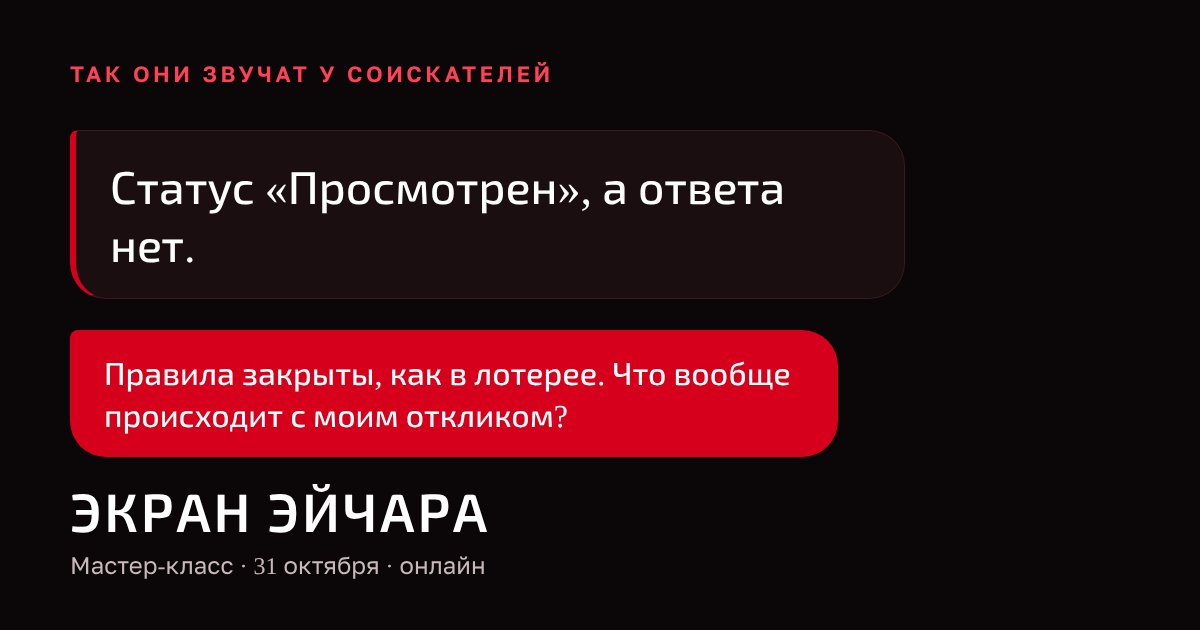
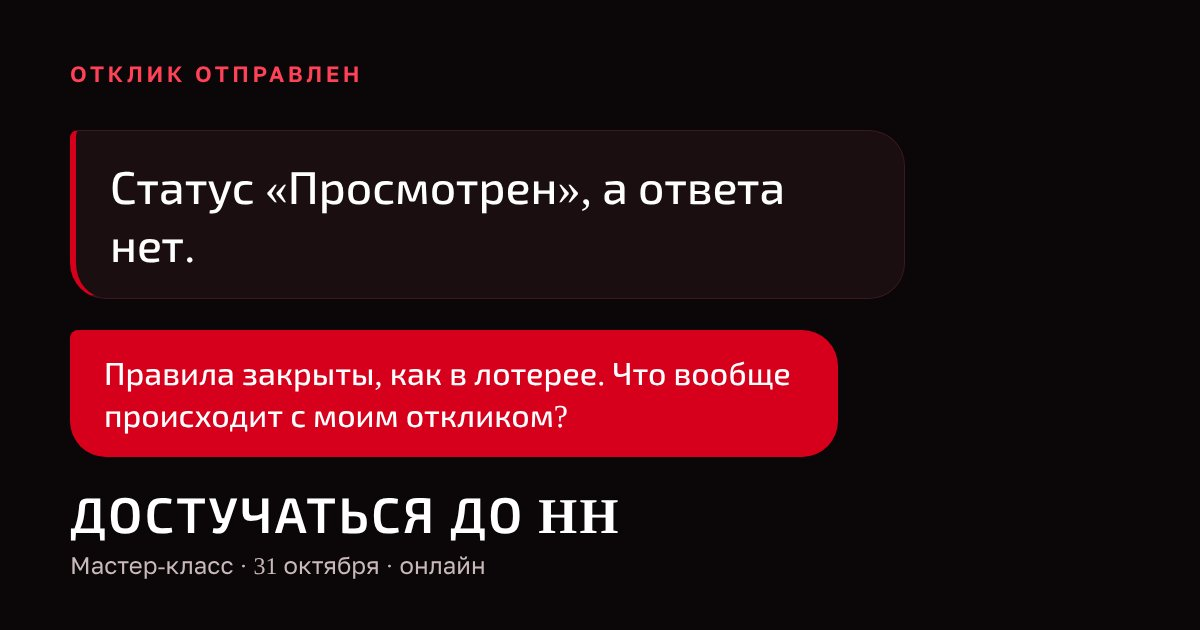
МК «Достучаться до HH»: монитор с автоотказом на первом экране, список причин, без дедлайна заявок
Claude-Session: https://claude.ai/code/session_01268gLZwSAVNuRtzsNwi1Zv

Changed region(s): [[0.0617, 0.754, 0.5242, 0.8746], [0.0617, 0.0905, 0.4625, 0.1508]]

diff --git a/ekran-ehr.html b/ekran-ehr.html
@@ -3,7 +3,7 @@
 <head>
 <meta charset="utf-8">
 <meta name="viewport" content="width=device-width, initial-scale=1">
-<title>Экран эйчара — мастер-класс Анастасии Мягченковой</title>
+<title>Достучаться до HH — мастер-класс Анастасии Мягченковой</title>
 <meta name="description" content="Правила закрыты, как в лотерее: вы отправляете отклик и не знаете, что с ним происходит. На МК вы откликнетесь на вакансию под вашу должность, а я покажу, как этот отклик выглядит на экране работодателя, почему на него молчат и что поменять.">
 <link rel="canonical" href="https://karernyi-strateg.hrexpert63.ru/ekran-ehr.html">
 <meta name="robots" content="index, follow, max-image-preview:large">
@@ -13,7 +13,7 @@
 <meta property="og:type" content="website">
 <meta property="og:locale" content="ru_RU">
 <meta property="og:site_name" content="Академия карьеры">
-<meta property="og:title" content="Экран эйчара">
+<meta property="og:title" content="Достучаться до HH">
 <meta property="og:description" content="Правила закрыты, как в лотерее: вы отправляете отклик и не знаете, что с ним происходит. На МК вы откликнетесь на вакансию под вашу должность, а я покажу, как этот отклик выглядит на экране работодателя, почему на него молчат и что поменять.">
 <meta property="og:url" content="https://karernyi-strateg.hrexpert63.ru/ekran-ehr.html">
 <meta property="og:image" content="https://karernyi-strateg.hrexpert63.ru/img/og-ekran-ehr.jpg">
@@ -81,13 +81,13 @@ h2{font:600 clamp(28px,5vw,52px)/1.12 var(--head);letter-spacing:-.01em;text-wra
 /* ───── 1. БОЛЬ ───── */
 .pain{position:relative;background:var(--night);color:#fff;padding:clamp(40px,7vw,96px) var(--gut) clamp(72px,9vw,120px);overflow:hidden}
 .pain::before{content:"";position:absolute;inset:auto -20% -40% -20%;height:70%;background:radial-gradient(60% 60% at 50% 100%,rgba(214,0,28,.38),transparent 70%);pointer-events:none}
-.pain__in{position:relative;max-width:1180px;margin:0 auto;display:grid;gap:clamp(28px,5vw,64px);grid-template-columns:1fr}
-@media(min-width:960px){.pain__in{grid-template-columns:1.05fr .95fr;align-items:center}}
-.pain h1{font:600 clamp(30px,5.6vw,64px)/1.08 var(--head);letter-spacing:-.015em;text-wrap:balance}
+/* hero: заголовок, затем монитор и реплики */
+.pain__in{position:relative;max-width:1180px;margin:0 auto;display:grid;gap:clamp(24px,4vw,40px);grid-template-columns:1fr}
+@media(min-width:960px){.pain__in{grid-template-columns:1fr 1fr;column-gap:56px;row-gap:28px;grid-template-areas:'h r' 'c r';align-items:start}
+  .pain__in h1{grid-area:h}.pain__in .rig{grid-area:r;align-self:center}.pain__in .chat{grid-area:c}}
+.pain h1{max-width:20ch;font:600 clamp(30px,5.6vw,64px)/1.08 var(--head);letter-spacing:-.015em;text-wrap:balance}
 .pain h1 em{font-style:normal;color:var(--hh-bright)}
-.pain__cap{margin-top:20px;color:#C9B9BB;font-size:15px;letter-spacing:.04em}
 .chat{display:flex;flex-direction:column;align-items:flex-start;gap:10px}
-.chat__label{font:600 12px/1.4 'Golos Text',sans-serif;letter-spacing:.16em;text-transform:uppercase;color:var(--hh-bright);margin-bottom:4px}
 .msg{max-width:min(100%,460px);padding:13px 18px;border-radius:4px 20px 20px 20px;background:var(--night2);border:1px solid #3A1A1F;border-left:3px solid var(--hh);font-size:clamp(16px,1.8vw,18px);line-height:1.45;color:#F4ECEC}
 .msg--last{background:var(--hh);border-color:var(--hh);color:#fff;font-weight:500;box-shadow:0 14px 40px -14px rgba(214,0,28,.8)}
 .js .msg{opacity:0;transform:translateY(14px);transition:opacity .5s ease,transform .5s ease}
@@ -98,6 +98,48 @@ h2{font:600 clamp(28px,5vw,52px)/1.12 var(--head);letter-spacing:-.01em;text-wra
 .arrow{display:block;margin-top:28px;color:var(--hh-bright);animation:bob 2s ease-in-out infinite}
 @keyframes bob{50%{transform:translateY(8px)}}
 
+
+/* монитор: отклик → автоотказ */
+.rig{width:100%;max-width:560px;margin:0 auto}
+.mon{border-radius:14px 14px 10px 10px;background:#15090B;border:2px solid #2C1A1D;padding:7px 7px 10px;box-shadow:0 30px 60px -30px rgba(214,0,28,.55)}
+.mon__bar{display:flex;align-items:center;gap:5px;padding:2px 4px 7px}
+.mon__bar i{width:8px;height:8px;border-radius:50%;background:#3A2326}
+.mon__bar .url{margin-left:8px;flex:1;min-width:0;padding:3px 10px;border-radius:999px;background:#241316;color:#9C8789;font:400 11px/1.4 'Golos Text',sans-serif;white-space:nowrap;overflow:hidden;text-overflow:ellipsis}
+.mon__page{position:relative;background:#fff;border-radius:8px;min-height:clamp(210px,52vw,300px);padding:14px 16px 16px;color:#16181D;overflow:hidden;font-family:'Golos Text',sans-serif}
+.nav{display:flex;align-items:center;gap:8px;padding-bottom:12px;border-bottom:1px solid #E7E9EE;margin-bottom:12px}
+.nav__dot{width:20px;height:20px;border-radius:50%;background:#E4E7EC}
+.nav__ln{height:8px;width:90px;border-radius:4px;background:#E4E7EC}.nav__ln--s{width:54px}
+.vac__t{font:700 clamp(16px,3.4vw,22px)/1.2 var(--head);color:#16181D}
+.vac__s{margin-top:6px;font-size:clamp(12px,2.4vw,14px);font-weight:500}
+.vac__m{margin-top:3px;font-size:clamp(11px,2.2vw,13px);color:#5B6270}
+.vac__btns{display:flex;gap:8px;margin-top:14px}
+.vac__btns span{display:grid;place-items:center;height:38px;border-radius:8px;font:600 clamp(12px,2.4vw,14px)/1 'Golos Text',sans-serif}
+.b1{flex:1.4;background:#0A6BFF;color:#fff}
+.b2{flex:1;background:#E8F0FF;color:#0A6BFF}
+.toast{position:absolute;right:12px;bottom:12px;left:12px;padding:12px 14px;border-radius:10px;opacity:0;font-size:clamp(12px,2.4vw,14px)}
+.t1{background:#16181D;color:#fff;font-weight:500}
+.t2{background:var(--hh);color:#fff;display:flex;justify-content:space-between;align-items:baseline;gap:10px;box-shadow:0 10px 30px -8px rgba(214,0,28,.7)}
+.t2 b{font:700 clamp(15px,3vw,18px)/1.2 var(--head)}
+.t2 span{font-size:12px;opacity:.9}
+.cur{position:absolute;left:68%;top:78%;filter:drop-shadow(0 2px 3px rgba(0,0,0,.35));pointer-events:none;opacity:0}
+.stand{width:22%;height:22px;margin:0 auto;background:linear-gradient(#2C1A1D,#1D1012)}
+.foot-b{width:44%;height:8px;margin:0 auto;border-radius:6px 6px 0 0;background:#2C1A1D}
+/* без анимации (reduce или без JS) — финальный кадр сразу виден */
+.t2{opacity:1}.cur{opacity:1;left:30%;top:66%}
+@media(prefers-reduced-motion:no-preference){
+  .t2{opacity:0;animation:t2 9s infinite}
+  .t1{animation:t1 9s infinite}
+  .cur{animation:cur 9s infinite;left:80%;top:95%}
+  .b1{animation:b1 9s infinite}
+}
+@keyframes cur{0%{opacity:0;left:84%;top:98%}8%{opacity:1}30%{left:28%;top:68%}36%{left:28%;top:68%;transform:scale(.88)}40%{transform:scale(1)}88%{opacity:1;left:28%;top:68%}96%,100%{opacity:0;left:28%;top:68%}}
+@keyframes b1{0%,34%{background:#0A6BFF}36%,100%{background:#0852C4}}
+@keyframes t1{0%,36%{opacity:0;transform:translateY(8px)}40%,52%{opacity:1;transform:none}56%,100%{opacity:0}}
+@keyframes t2{0%,56%{opacity:0;transform:translateY(8px)}62%,92%{opacity:1;transform:none}98%,100%{opacity:0}}
+.pain__end p.pain__sub{font:400 clamp(16px,2vw,19px)/1.5 "Golos Text",sans-serif;margin-top:18px;color:#C9B9BB;max-width:52ch}
+.why-tags{margin-top:18px;display:flex;flex-wrap:wrap;gap:10px;max-width:980px}
+.why-tags li{padding:9px 15px;border-radius:999px;border:1px solid #5A1B24;background:rgba(214,0,28,.12);color:#FFD9DD;font-size:15px;line-height:1.35}
+
 /* ───── мост: боль → спокойствие ───── */
 .bridge{height:clamp(140px,22vw,260px);background:linear-gradient(180deg,var(--night) 0%,#2B0A10 18%,#10201E 58%,var(--bg) 100%)}
 
@@ -106,7 +148,7 @@ h2{font:600 clamp(28px,5vw,52px)/1.12 var(--head);letter-spacing:-.01em;text-wra
 .offer__in{display:grid;gap:clamp(36px,6vw,80px);grid-template-columns:1fr;align-items:center}
 @media(min-width:960px){.offer__in{grid-template-columns:1.1fr .9fr}}
 .offer .eyebrow{color:var(--link)}
-.offer h2.title{margin-top:16px;font:600 clamp(36px,8.4vw,92px)/1 var(--head);letter-spacing:.05em;text-transform:uppercase;color:var(--ink)}
+.offer h2.title{margin-top:16px;font:600 clamp(30px,7.4vw,84px)/1.02 var(--head);letter-spacing:.03em;text-transform:uppercase;color:var(--ink)}
 .offer .sub{margin-top:20px;font:500 clamp(20px,3vw,28px)/1.3 var(--head);color:var(--teal);max-width:24ch}
 @media(prefers-color-scheme:dark){.offer .sub{color:var(--gold2)}}
 .offer .txt{margin-top:20px;color:var(--mute);max-width:56ch}
@@ -298,21 +340,52 @@ h2{font:600 clamp(28px,5vw,52px)/1.12 var(--head);letter-spacing:-.01em;text-wra
 <!-- 1. БОЛЬ -->
 <section class="pain" id="pain" aria-labelledby="h1">
   <div class="pain__in">
-    <div>
-      <h1 id="h1">Вы отправили десятки откликов. В&nbsp;ответ <em>тишина или отказ через несколько секунд</em></h1>
-    </div>
-    <div class="chat" id="chat">
-      <div class="chat__label">Так они звучат у соискателей</div>
-      <p class="msg">Отправил 50 откликов. Тишина.</p>
-      <p class="msg">Отказ пришёл через пять секунд. Меня вообще читали?</p>
-      <p class="msg">Статус «Просмотрен», а ответа нет.</p>
-      <p class="msg">Может, дело в резюме? Или в письме? Или меня отсеял фильтр?</p>
-      <p class="msg">Не понятно, это я не подхожу рынку или система сбоит.</p>
-      <p class="msg msg--last">Правила закрыты, как в лотерее. Что вообще происходит с моим откликом?</p>
-    </div>
+    <h1 id="h1">Вы отправили десятки откликов. В&nbsp;ответ <em>тишина или отказ через несколько секунд</em></h1>
+      <div class="rig" role="img" aria-label="Компьютер: на мониторе открыта страница вакансии, соискатель нажимает «Откликнуться» и сразу получает автоматический отказ">
+        <div class="mon">
+          <div class="mon__bar"><i></i><i></i><i></i><span class="url">vacancy / руководитель-отдела-продаж</span></div>
+          <div class="mon__page">
+            <div class="nav"><span class="nav__dot"></span><span class="nav__ln"></span><span class="nav__ln nav__ln--s"></span></div>
+            <div class="vac">
+              <p class="vac__t">Руководитель отдела продаж</p>
+              <p class="vac__s">от 150 000 ₽ за месяц, до вычета налогов</p>
+              <p class="vac__m">Опыт работы: 3–6 лет · Полная занятость</p>
+              <p class="vac__m">Сейчас эту вакансию смотрят 6 человек</p>
+              <div class="vac__btns"><span class="b1">Откликнуться</span><span class="b2">Контакты</span></div>
+            </div>
+            <div class="toast t1">Отклик отправлен</div>
+            <div class="toast t2"><b>Отказ</b><span>Прошло 5 секунд</span></div>
+            <svg class="cur" width="26" height="26" viewBox="0 0 24 24" aria-hidden="true"><path d="M5 2l14 9-6.2 1.4L16 19l-3 1.3-3.2-6.4L5 18z" fill="#fff" stroke="#111" stroke-width="1.4" stroke-linejoin="round"/></svg>
+          </div>
+        </div>
+        <div class="stand"></div><div class="foot-b"></div>
+      </div>
+      <div class="chat" id="chat">
+        <p class="msg">Отправил 50 откликов. Тишина.</p>
+        <p class="msg">Отказ пришёл через пять секунд. Меня вообще читали?</p>
+        <p class="msg">Статус «Просмотрен», а ответа нет.</p>
+        <p class="msg">Может, дело в резюме? Или в письме? Или меня отсеял фильтр?</p>
+        <p class="msg">Не понятно, это я не подхожу рынку или система сбоит.</p>
+        <p class="msg msg--last">Правила закрыты, как в лотерее. Что вообще происходит с моим откликом?</p>
+      </div>
   </div>
   <div class="pain__end">
     <p>Хуже всего не отказ, а то, что вы не знаете, <b>почему</b></p>
+    <p class="pain__sub">Причин может быть множество, и снаружи их не различить:</p>
+    <ul class="why-tags">
+      <li>резюме не совпало с требованиями вакансии</li>
+      <li>отклик не прошёл автоматический фильтр</li>
+      <li>шаблонное сопроводительное письмо</li>
+      <li>нет результатов и цифр в опыте</li>
+      <li>зарплатные ожидания выше вилки</li>
+      <li>слишком большой или слишком маленький опыт</li>
+      <li>частая смена мест работы или пауза в карьере</li>
+      <li>не те ответы на вопросы работодателя</li>
+      <li>вакансия уже закрыта, а отклик всё ещё принимается</li>
+      <li>отклик утонул среди сотен других</li>
+      <li>регион, формат или график не подошли</li>
+      <li>рекрутёр увидел в списке только одну строку</li>
+    </ul>
     <svg class="arrow" width="28" height="40" viewBox="0 0 28 40" fill="none" stroke="currentColor" stroke-width="2.5" stroke-linecap="round" stroke-linejoin="round" aria-hidden="true"><path d="M14 3v32M4 26l10 10 10-10"/></svg>
   </div>
 </section>
@@ -324,12 +397,12 @@ h2{font:600 clamp(28px,5vw,52px)/1.12 var(--head);letter-spacing:-.01em;text-wra
   <div class="wrap offer__in">
     <div>
       <p class="eyebrow">Мастер-класс · 31 октября · онлайн</p>
-      <h2 class="title" id="h-offer">Экран эйчара</h2>
+      <h2 class="title" id="h-offer">Достучаться до&nbsp;HH</h2>
       <p class="sub">Покажу, что эйчар видит вместо вашего отклика</p>
       <p class="txt">Правила закрыты, как в лотерее. Вы отправляете отклик и не знаете, что с ним происходит. На мастер-классе вы откликнетесь на вакансию под вашу должность, а я покажу, как этот отклик выглядит на экране работодателя, почему на него молчат и что поменять.</p>
       <ul class="facts">
         <li>31 октября, живая встреча</li>
-        <li>Заявки до 28 октября</li>
+        <li>Запись встречи включена</li>
         <li>Разбор вашего отклика от 5&nbsp;900&nbsp;₽</li>
       </ul>
       <a class="btn" href="#tariffs" data-goal="cta_offer">Выбрать формат</a>
@@ -369,10 +442,10 @@ h2{font:600 clamp(28px,5vw,52px)/1.12 var(--head);letter-spacing:-.01em;text-wra
       <div class="node node--end">Разбор и правки<small>что поменять</small></div>
     </div>
     <ol class="steps">
-      <li><span class="d">До 28 октября</span><p><b>Вы записываетесь и заполняете анкету:</b> должность, отрасль, резюме, зарплатные ожидания.</p></li>
-      <li><span class="d">После записи</span><p><b>Я публикую учебную вакансию</b> под вашу должность (в базовом тарифе — под ваше направление, в персональном — под точную). Найм по ней не ведётся.</p></li>
+      <li><span class="d">Сразу после оплаты</span><p><b>Вы записываетесь и заполняете анкету:</b> должность, отрасль, резюме, зарплатные ожидания.</p></li>
+      <li><span class="d">После анкеты</span><p><b>Я публикую учебную вакансию</b> под вашу должность (в базовом тарифе — под ваше направление, в персональном — под точную). Найм по ней не ведётся.</p></li>
       <li><span class="d">Ваш шаг</span><p><b>Вы откликаетесь</b> со своим сопроводительным, как на обычную вакансию.</p></li>
-      <li><span class="d">29–30 октября</span><p><b>Я показываю скрины</b> вашего отклика в интерфейсе работодателя и пишу разбор: что видно сразу, три стоп-фактора, три правки.</p></li>
+      <li><span class="d">29–30 октября</span><p><b>Я показываю скрины</b> вашего отклика в интерфейсе работодателя и пишу разбор: что видно сразу, стоп-факторы и правки.</p></li>
       <li><span class="d">31 октября</span><p><b>Живая встреча.</b> Типичные ошибки на обезличенных примерах и ответы на ваши вопросы.</p></li>
     </ol>
     <p class="note">Вакансия учебная: найм по ней не ведётся, вы откликаетесь осознанно, чтобы увидеть свой отклик глазами работодателя.</p>
@@ -419,7 +492,7 @@ h2{font:600 clamp(28px,5vw,52px)/1.12 var(--head);letter-spacing:-.01em;text-wra
     <ul class="gain__list">
       <li><svg width="26" height="26" viewBox="0 0 26 26" fill="none" stroke="#E7C766" stroke-width="2" stroke-linecap="round" stroke-linejoin="round" aria-hidden="true"><circle cx="13" cy="13" r="11"/><path d="M7.5 13.5l4 4 7-8"/></svg><p><b>Увидите свой отклик так, как его видит эйчар</b><span>Скрины из интерфейса работодателя.</span></p></li>
       <li><svg width="26" height="26" viewBox="0 0 26 26" fill="none" stroke="#E7C766" stroke-width="2" stroke-linecap="round" stroke-linejoin="round" aria-hidden="true"><circle cx="13" cy="13" r="11"/><path d="M7.5 13.5l4 4 7-8"/></svg><p><b>Поймёте, где он теряется</b><span>В резюме, в письме или в соответствии вакансии.</span></p></li>
-      <li><svg width="26" height="26" viewBox="0 0 26 26" fill="none" stroke="#E7C766" stroke-width="2" stroke-linecap="round" stroke-linejoin="round" aria-hidden="true"><circle cx="13" cy="13" r="11"/><path d="M7.5 13.5l4 4 7-8"/></svg><p><b>Получите три правки</b><span>И переписанное начало сопроводительного.</span></p></li>
+      <li><svg width="26" height="26" viewBox="0 0 26 26" fill="none" stroke="#E7C766" stroke-width="2" stroke-linecap="round" stroke-linejoin="round" aria-hidden="true"><circle cx="13" cy="13" r="11"/><path d="M7.5 13.5l4 4 7-8"/></svg><p><b>Получите правки</b><span>И переписанное начало сопроводительного.</span></p></li>
       <li><svg width="26" height="26" viewBox="0 0 26 26" fill="none" stroke="#E7C766" stroke-width="2" stroke-linecap="round" stroke-linejoin="round" aria-hidden="true"><circle cx="13" cy="13" r="11"/><path d="M7.5 13.5l4 4 7-8"/></svg><p><b>Узнаете, как устроен отбор</b><span>На живой встрече, и сможете задать вопрос.</span></p></li>
     </ul>
     <p class="gain__honest">Приглашения не обещаю: решение принимает работодатель. Зато пропадёт главное — <b>непонимание, что с вашим откликом не так.</b></p>
@@ -429,8 +502,7 @@ h2{font:600 clamp(28px,5vw,52px)/1.12 var(--head);letter-spacing:-.01em;text-wra
 <!-- 7. ТАРИФЫ -->
 <section class="sec tar" id="tariffs" aria-labelledby="h-tar">
   <div class="wrap">
-    <p class="eyebrow">Заявки до 28 октября</p>
-    <h2 id="h-tar" style="margin-top:12px">Выберите формат</h2>
+    <h2 id="h-tar">Выберите формат</h2>
     <div class="tar__grid">
       <article class="plan">
         <h3>Базовый</h3>
@@ -460,7 +532,7 @@ h2{font:600 clamp(28px,5vw,52px)/1.12 var(--head);letter-spacing:-.01em;text-wra
         <p class="seats" data-seats="pro"></p>
       </article>
     </div>
-    <p class="tar__note"><b>Заявки до 28 октября.</b> Мест мало, потому что каждый отклик я разбираю лично.</p>
+    <p class="tar__note"><b>Мест мало,</b> потому что каждый отклик я разбираю лично.</p>
   </div>
 </section>
 
@@ -527,7 +599,7 @@ h2{font:600 clamp(28px,5vw,52px)/1.12 var(--head);letter-spacing:-.01em;text-wra
 <section class="sec fin" id="final" aria-labelledby="h-fin">
   <div class="wrap">
     <h2 id="h-fin">Отклик без тишины начинается с того, что вы увидите его со стороны</h2>
-    <p>Заявки до 28 октября. Мест мало, потому что каждый отклик я разбираю лично.</p>
+    <p>Мест мало, потому что каждый отклик я разбираю лично.</p>
     <a class="btn btn--gold" href="#tariffs" data-goal="cta_final">Выбрать формат</a>
   </div>
 </section>
